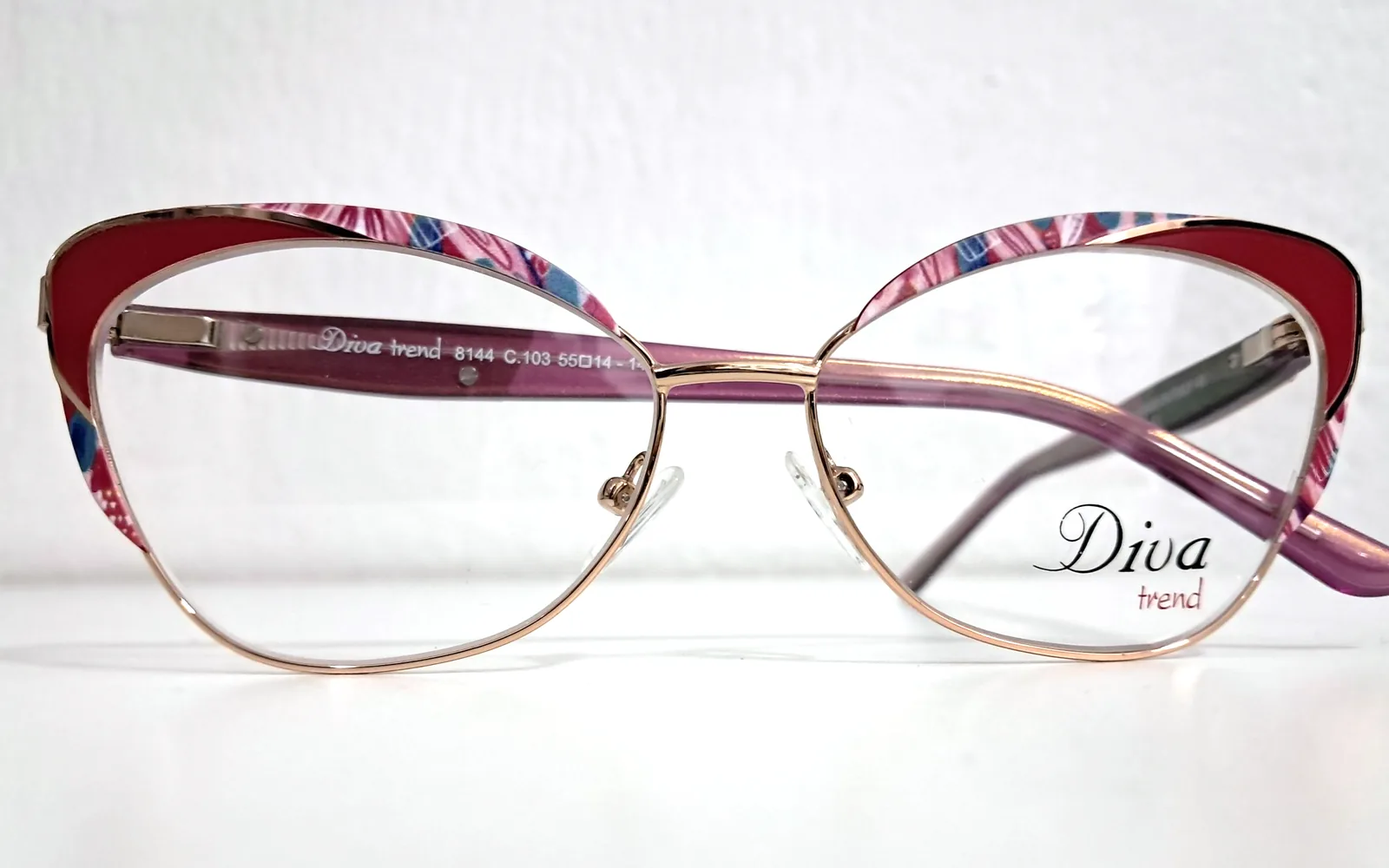
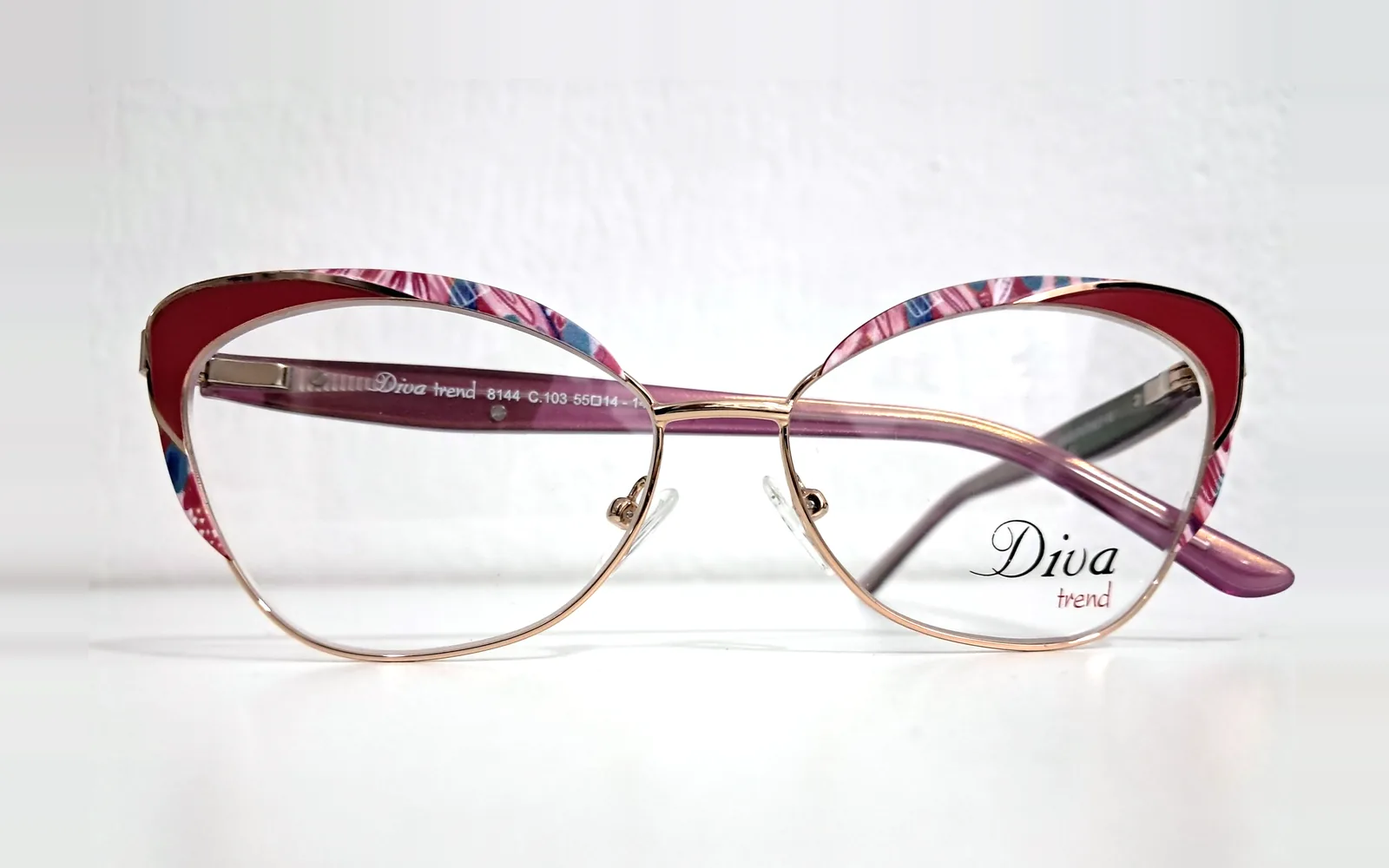
okviri u istoj ravni: poravnate kartice i velike fotografije
Kartice metalnih okvira (William Morris, Diva trend) su bile isecene drugacije
od clip-on okvira, pa su na zidu stajale nize, vise i krupnije. Sada sve kartice
prate isto pravilo: prednji deo okvira zauzima 79% sirine, donja ivica je na
75,5% visine. Gde fotografija nije dovoljno siroka, pozadina se produzi.

U galeriji je velika fotografija svakog modela poravnata verzija 4:3
(<model>-poravnat), sa istom sirinom okvira i donjom ivicom na 70% visine.
Pravilo je u tools/okviri-slike.py (KARTICA_PREDNJI, kartica_po_prednjem).

Changed region(s): [[0.0, 0.217, 1.0, 0.806]]

diff --git a/okviri/index.html b/okviri/index.html
@@ -107,7 +107,7 @@
         <h2 class="gal-name" id="kubik-ime">Kubik okvir</h2>
         <p class="gal-sub">Clip-on okvir, providni sivo-plavi</p>
         <ul class="gal-grid">
-          <li><a class="gal-item" href="/images/okviri/kubik/kubik-spreda-1600.webp" data-lb="kubik" data-cap="Kubik okvir, spreda"><img src="/images/okviri/kubik/kubik-spreda-800.webp" srcset="/images/okviri/kubik/kubik-spreda-800.webp 800w, /images/okviri/kubik/kubik-spreda-1600.webp 1600w" sizes="(max-width: 759px) 100vw, 600px" alt="Kubik okvir, spreda" width="800" height="600" loading="lazy" decoding="async"></a></li>
+          <li><a class="gal-item" href="/images/okviri/kubik/kubik-poravnat-1600.webp" data-lb="kubik" data-cap="Kubik okvir, spreda"><img src="/images/okviri/kubik/kubik-poravnat-800.webp" srcset="/images/okviri/kubik/kubik-poravnat-800.webp 800w, /images/okviri/kubik/kubik-poravnat-1600.webp 1600w" sizes="(max-width: 759px) 100vw, 600px" alt="Kubik okvir, spreda" width="800" height="600" loading="lazy" decoding="async"></a></li>
           <li><a class="gal-item" href="/images/okviri/kubik/kubik-poluprofil-1600.webp" data-lb="kubik" data-cap="Kubik okvir, iz poluprofila"><img src="/images/okviri/kubik/kubik-poluprofil-800.webp" srcset="/images/okviri/kubik/kubik-poluprofil-800.webp 800w, /images/okviri/kubik/kubik-poluprofil-1600.webp 1600w" sizes="(max-width: 759px) 50vw, 300px" alt="Kubik okvir, iz poluprofila" width="800" height="600" loading="lazy" decoding="async"></a></li>
           <li><a class="gal-item" href="/images/okviri/kubik/kubik-profil-1600.webp" data-lb="kubik" data-cap="Kubik okvir, sa strane"><img src="/images/okviri/kubik/kubik-profil-800.webp" srcset="/images/okviri/kubik/kubik-profil-800.webp 800w, /images/okviri/kubik/kubik-profil-1600.webp 1600w" sizes="(max-width: 759px) 50vw, 300px" alt="Kubik okvir, sa strane" width="800" height="600" loading="lazy" decoding="async"></a></li>
           <li><a class="gal-item" href="/images/okviri/kubik/kubik-clip-on-spreda-1600.webp" data-lb="kubik" data-cap="Kubik okvir, sa clip-on staklom, spreda"><img src="/images/okviri/kubik/kubik-clip-on-spreda-800.webp" srcset="/images/okviri/kubik/kubik-clip-on-spreda-800.webp 800w, /images/okviri/kubik/kubik-clip-on-spreda-1600.webp 1600w" sizes="(max-width: 759px) 50vw, 300px" alt="Kubik okvir, sa clip-on staklom, spreda" width="800" height="600" loading="lazy" decoding="async"></a></li>
@@ -123,7 +123,7 @@
         <h2 class="gal-name" id="tony-morgan-clip-on-1-ime">Tony Morgan Clip-on 1</h2>
         <p class="gal-sub">Clip-on okvir u boji šampanjca</p>
         <ul class="gal-grid">
-          <li><a class="gal-item" href="/images/okviri/tony-morgan-sampanj/tony-morgan-sampanj-spreda-1600.webp" data-lb="tony-morgan-clip-on-1" data-cap="Tony Morgan Clip-on 1, spreda"><img src="/images/okviri/tony-morgan-sampanj/tony-morgan-sampanj-spreda-800.webp" srcset="/images/okviri/tony-morgan-sampanj/tony-morgan-sampanj-spreda-800.webp 800w, /images/okviri/tony-morgan-sampanj/tony-morgan-sampanj-spreda-1600.webp 1600w" sizes="(max-width: 759px) 100vw, 600px" alt="Tony Morgan Clip-on 1, spreda" width="800" height="600" loading="lazy" decoding="async"></a></li>
+          <li><a class="gal-item" href="/images/okviri/tony-morgan-sampanj/tony-morgan-sampanj-poravnat-1600.webp" data-lb="tony-morgan-clip-on-1" data-cap="Tony Morgan Clip-on 1, spreda"><img src="/images/okviri/tony-morgan-sampanj/tony-morgan-sampanj-poravnat-800.webp" srcset="/images/okviri/tony-morgan-sampanj/tony-morgan-sampanj-poravnat-800.webp 800w, /images/okviri/tony-morgan-sampanj/tony-morgan-sampanj-poravnat-1600.webp 1600w" sizes="(max-width: 759px) 100vw, 600px" alt="Tony Morgan Clip-on 1, spreda" width="800" height="600" loading="lazy" decoding="async"></a></li>
           <li><a class="gal-item" href="/images/okviri/tony-morgan-sampanj/tony-morgan-sampanj-poluprofil-1600.webp" data-lb="tony-morgan-clip-on-1" data-cap="Tony Morgan Clip-on 1, iz poluprofila"><img src="/images/okviri/tony-morgan-sampanj/tony-morgan-sampanj-poluprofil-800.webp" srcset="/images/okviri/tony-morgan-sampanj/tony-morgan-sampanj-poluprofil-800.webp 800w, /images/okviri/tony-morgan-sampanj/tony-morgan-sampanj-poluprofil-1600.webp 1600w" sizes="(max-width: 759px) 50vw, 300px" alt="Tony Morgan Clip-on 1, iz poluprofila" width="800" height="600" loading="lazy" decoding="async"></a></li>
           <li><a class="gal-item" href="/images/okviri/tony-morgan-sampanj/tony-morgan-sampanj-profil-1600.webp" data-lb="tony-morgan-clip-on-1" data-cap="Tony Morgan Clip-on 1, sa strane"><img src="/images/okviri/tony-morgan-sampanj/tony-morgan-sampanj-profil-800.webp" srcset="/images/okviri/tony-morgan-sampanj/tony-morgan-sampanj-profil-800.webp 800w, /images/okviri/tony-morgan-sampanj/tony-morgan-sampanj-profil-1600.webp 1600w" sizes="(max-width: 759px) 50vw, 300px" alt="Tony Morgan Clip-on 1, sa strane" width="800" height="600" loading="lazy" decoding="async"></a></li>
           <li><a class="gal-item" href="/images/okviri/tony-morgan-sampanj/tony-morgan-sampanj-clip-on-spreda-1600.webp" data-lb="tony-morgan-clip-on-1" data-cap="Tony Morgan Clip-on 1, sa clip-on staklom, spreda"><img src="/images/okviri/tony-morgan-sampanj/tony-morgan-sampanj-clip-on-spreda-800.webp" srcset="/images/okviri/tony-morgan-sampanj/tony-morgan-sampanj-clip-on-spreda-800.webp 800w, /images/okviri/tony-morgan-sampanj/tony-morgan-sampanj-clip-on-spreda-1600.webp 1600w" sizes="(max-width: 759px) 50vw, 300px" alt="Tony Morgan Clip-on 1, sa clip-on staklom, spreda" width="800" height="600" loading="lazy" decoding="async"></a></li>
@@ -141,7 +141,7 @@
         <h2 class="gal-name" id="tony-morgan-clip-on-2-ime">Tony Morgan Clip-on 2</h2>
         <p class="gal-sub">Clip-on okvir, tamnoplavi leptir</p>
         <ul class="gal-grid">
-          <li><a class="gal-item" href="/images/okviri/tony-morgan-leptir/tony-morgan-leptir-spreda-1600.webp" data-lb="tony-morgan-clip-on-2" data-cap="Tony Morgan Clip-on 2, spreda"><img src="/images/okviri/tony-morgan-leptir/tony-morgan-leptir-spreda-800.webp" srcset="/images/okviri/tony-morgan-leptir/tony-morgan-leptir-spreda-800.webp 800w, /images/okviri/tony-morgan-leptir/tony-morgan-leptir-spreda-1600.webp 1600w" sizes="(max-width: 759px) 100vw, 600px" alt="Tony Morgan Clip-on 2, spreda" width="800" height="600" loading="lazy" decoding="async"></a></li>
+          <li><a class="gal-item" href="/images/okviri/tony-morgan-leptir/tony-morgan-leptir-poravnat-1600.webp" data-lb="tony-morgan-clip-on-2" data-cap="Tony Morgan Clip-on 2, spreda"><img src="/images/okviri/tony-morgan-leptir/tony-morgan-leptir-poravnat-800.webp" srcset="/images/okviri/tony-morgan-leptir/tony-morgan-leptir-poravnat-800.webp 800w, /images/okviri/tony-morgan-leptir/tony-morgan-leptir-poravnat-1600.webp 1600w" sizes="(max-width: 759px) 100vw, 600px" alt="Tony Morgan Clip-on 2, spreda" width="800" height="600" loading="lazy" decoding="async"></a></li>
           <li><a class="gal-item" href="/images/okviri/tony-morgan-leptir/tony-morgan-leptir-poluprofil-1600.webp" data-lb="tony-morgan-clip-on-2" data-cap="Tony Morgan Clip-on 2, iz poluprofila"><img src="/images/okviri/tony-morgan-leptir/tony-morgan-leptir-poluprofil-800.webp" srcset="/images/okviri/tony-morgan-leptir/tony-morgan-leptir-poluprofil-800.webp 800w, /images/okviri/tony-morgan-leptir/tony-morgan-leptir-poluprofil-1600.webp 1600w" sizes="(max-width: 759px) 50vw, 300px" alt="Tony Morgan Clip-on 2, iz poluprofila" width="800" height="600" loading="lazy" decoding="async"></a></li>
           <li><a class="gal-item" href="/images/okviri/tony-morgan-leptir/tony-morgan-leptir-profil-1600.webp" data-lb="tony-morgan-clip-on-2" data-cap="Tony Morgan Clip-on 2, sa strane"><img src="/images/okviri/tony-morgan-leptir/tony-morgan-leptir-profil-800.webp" srcset="/images/okviri/tony-morgan-leptir/tony-morgan-leptir-profil-800.webp 800w, /images/okviri/tony-morgan-leptir/tony-morgan-leptir-profil-1600.webp 1600w" sizes="(max-width: 759px) 50vw, 300px" alt="Tony Morgan Clip-on 2, sa strane" width="800" height="600" loading="lazy" decoding="async"></a></li>
           <li><a class="gal-item" href="/images/okviri/tony-morgan-leptir/tony-morgan-leptir-clip-on-spreda-1600.webp" data-lb="tony-morgan-clip-on-2" data-cap="Tony Morgan Clip-on 2, sa clip-on staklom, spreda"><img src="/images/okviri/tony-morgan-leptir/tony-morgan-leptir-clip-on-spreda-800.webp" srcset="/images/okviri/tony-morgan-leptir/tony-morgan-leptir-clip-on-spreda-800.webp 800w, /images/okviri/tony-morgan-leptir/tony-morgan-leptir-clip-on-spreda-1600.webp 1600w" sizes="(max-width: 759px) 50vw, 300px" alt="Tony Morgan Clip-on 2, sa clip-on staklom, spreda" width="800" height="600" loading="lazy" decoding="async"></a></li>
@@ -159,7 +159,7 @@
         <h2 class="gal-name" id="tony-morgan-clip-on-3-ime">Tony Morgan Clip-on 3</h2>
         <p class="gal-sub">Clip-on okvir, tamnoplavi cat-eye</p>
         <ul class="gal-grid">
-          <li><a class="gal-item" href="/images/okviri/tony-morgan-cat-eye/tony-morgan-cat-eye-spreda-1600.webp" data-lb="tony-morgan-clip-on-3" data-cap="Tony Morgan Clip-on 3, spreda"><img src="/images/okviri/tony-morgan-cat-eye/tony-morgan-cat-eye-spreda-800.webp" srcset="/images/okviri/tony-morgan-cat-eye/tony-morgan-cat-eye-spreda-800.webp 800w, /images/okviri/tony-morgan-cat-eye/tony-morgan-cat-eye-spreda-1600.webp 1600w" sizes="(max-width: 759px) 100vw, 600px" alt="Tony Morgan Clip-on 3, spreda" width="800" height="600" loading="lazy" decoding="async"></a></li>
+          <li><a class="gal-item" href="/images/okviri/tony-morgan-cat-eye/tony-morgan-cat-eye-poravnat-1600.webp" data-lb="tony-morgan-clip-on-3" data-cap="Tony Morgan Clip-on 3, spreda"><img src="/images/okviri/tony-morgan-cat-eye/tony-morgan-cat-eye-poravnat-800.webp" srcset="/images/okviri/tony-morgan-cat-eye/tony-morgan-cat-eye-poravnat-800.webp 800w, /images/okviri/tony-morgan-cat-eye/tony-morgan-cat-eye-poravnat-1600.webp 1600w" sizes="(max-width: 759px) 100vw, 600px" alt="Tony Morgan Clip-on 3, spreda" width="800" height="600" loading="lazy" decoding="async"></a></li>
           <li><a class="gal-item" href="/images/okviri/tony-morgan-cat-eye/tony-morgan-cat-eye-poluprofil-1600.webp" data-lb="tony-morgan-clip-on-3" data-cap="Tony Morgan Clip-on 3, iz poluprofila"><img src="/images/okviri/tony-morgan-cat-eye/tony-morgan-cat-eye-poluprofil-800.webp" srcset="/images/okviri/tony-morgan-cat-eye/tony-morgan-cat-eye-poluprofil-800.webp 800w, /images/okviri/tony-morgan-cat-eye/tony-morgan-cat-eye-poluprofil-1600.webp 1600w" sizes="(max-width: 759px) 50vw, 300px" alt="Tony Morgan Clip-on 3, iz poluprofila" width="800" height="600" loading="lazy" decoding="async"></a></li>
           <li><a class="gal-item" href="/images/okviri/tony-morgan-cat-eye/tony-morgan-cat-eye-profil-1600.webp" data-lb="tony-morgan-clip-on-3" data-cap="Tony Morgan Clip-on 3, sa strane"><img src="/images/okviri/tony-morgan-cat-eye/tony-morgan-cat-eye-profil-800.webp" srcset="/images/okviri/tony-morgan-cat-eye/tony-morgan-cat-eye-profil-800.webp 800w, /images/okviri/tony-morgan-cat-eye/tony-morgan-cat-eye-profil-1600.webp 1600w" sizes="(max-width: 759px) 50vw, 300px" alt="Tony Morgan Clip-on 3, sa strane" width="800" height="600" loading="lazy" decoding="async"></a></li>
           <li><a class="gal-item" href="/images/okviri/tony-morgan-cat-eye/tony-morgan-cat-eye-clip-on-spreda-1600.webp" data-lb="tony-morgan-clip-on-3" data-cap="Tony Morgan Clip-on 3, sa clip-on staklom, spreda"><img src="/images/okviri/tony-morgan-cat-eye/tony-morgan-cat-eye-clip-on-spreda-800.webp" srcset="/images/okviri/tony-morgan-cat-eye/tony-morgan-cat-eye-clip-on-spreda-800.webp 800w, /images/okviri/tony-morgan-cat-eye/tony-morgan-cat-eye-clip-on-spreda-1600.webp 1600w" sizes="(max-width: 759px) 50vw, 300px" alt="Tony Morgan Clip-on 3, sa clip-on staklom, spreda" width="800" height="600" loading="lazy" decoding="async"></a></li>
@@ -182,7 +182,7 @@
         <h2 class="gal-name" id="tony-morgan-clip-on-4-ime">Tony Morgan Clip-on 4</h2>
         <p class="gal-sub">Clip-on okvir, tamnoplavi okrugli</p>
         <ul class="gal-grid">
-          <li><a class="gal-item" href="/images/okviri/tony-morgan-okrugli/tony-morgan-okrugli-spreda-1600.webp" data-lb="tony-morgan-clip-on-4" data-cap="Tony Morgan Clip-on 4, spreda"><img src="/images/okviri/tony-morgan-okrugli/tony-morgan-okrugli-spreda-800.webp" srcset="/images/okviri/tony-morgan-okrugli/tony-morgan-okrugli-spreda-800.webp 800w, /images/okviri/tony-morgan-okrugli/tony-morgan-okrugli-spreda-1600.webp 1600w" sizes="(max-width: 759px) 100vw, 600px" alt="Tony Morgan Clip-on 4, spreda" width="800" height="600" loading="lazy" decoding="async"></a></li>
+          <li><a class="gal-item" href="/images/okviri/tony-morgan-okrugli/tony-morgan-okrugli-poravnat-1600.webp" data-lb="tony-morgan-clip-on-4" data-cap="Tony Morgan Clip-on 4, spreda"><img src="/images/okviri/tony-morgan-okrugli/tony-morgan-okrugli-poravnat-800.webp" srcset="/images/okviri/tony-morgan-okrugli/tony-morgan-okrugli-poravnat-800.webp 800w, /images/okviri/tony-morgan-okrugli/tony-morgan-okrugli-poravnat-1600.webp 1600w" sizes="(max-width: 759px) 100vw, 600px" alt="Tony Morgan Clip-on 4, spreda" width="800" height="600" loading="lazy" decoding="async"></a></li>
           <li><a class="gal-item" href="/images/okviri/tony-morgan-okrugli/tony-morgan-okrugli-poluprofil-1600.webp" data-lb="tony-morgan-clip-on-4" data-cap="Tony Morgan Clip-on 4, iz poluprofila"><img src="/images/okviri/tony-morgan-okrugli/tony-morgan-okrugli-poluprofil-800.webp" srcset="/images/okviri/tony-morgan-okrugli/tony-morgan-okrugli-poluprofil-800.webp 800w, /images/okviri/tony-morgan-okrugli/tony-morgan-okrugli-poluprofil-1600.webp 1600w" sizes="(max-width: 759px) 50vw, 300px" alt="Tony Morgan Clip-on 4, iz poluprofila" width="800" height="600" loading="lazy" decoding="async"></a></li>
           <li><a class="gal-item" href="/images/okviri/tony-morgan-okrugli/tony-morgan-okrugli-profil-1600.webp" data-lb="tony-morgan-clip-on-4" data-cap="Tony Morgan Clip-on 4, sa strane"><img src="/images/okviri/tony-morgan-okrugli/tony-morgan-okrugli-profil-800.webp" srcset="/images/okviri/tony-morgan-okrugli/tony-morgan-okrugli-profil-800.webp 800w, /images/okviri/tony-morgan-okrugli/tony-morgan-okrugli-profil-1600.webp 1600w" sizes="(max-width: 759px) 50vw, 300px" alt="Tony Morgan Clip-on 4, sa strane" width="800" height="600" loading="lazy" decoding="async"></a></li>
           <li><a class="gal-item" href="/images/okviri/tony-morgan-okrugli/tony-morgan-okrugli-clip-on-spreda-1600.webp" data-lb="tony-morgan-clip-on-4" data-cap="Tony Morgan Clip-on 4, sa clip-on staklom, spreda"><img src="/images/okviri/tony-morgan-okrugli/tony-morgan-okrugli-clip-on-spreda-800.webp" srcset="/images/okviri/tony-morgan-okrugli/tony-morgan-okrugli-clip-on-spreda-800.webp 800w, /images/okviri/tony-morgan-okrugli/tony-morgan-okrugli-clip-on-spreda-1600.webp 1600w" sizes="(max-width: 759px) 50vw, 300px" alt="Tony Morgan Clip-on 4, sa clip-on staklom, spreda" width="800" height="600" loading="lazy" decoding="async"></a></li>
@@ -200,7 +200,7 @@
         <h2 class="gal-name" id="tony-morgan-clip-on-5-ime">Tony Morgan Clip-on 5</h2>
         <p class="gal-sub">Clip-on okvir, tamnoplavi pravougaoni</p>
         <ul class="gal-grid">
-          <li><a class="gal-item" href="/images/okviri/tony-morgan-pravougaoni/tony-morgan-pravougaoni-spreda-1600.webp" data-lb="tony-morgan-clip-on-5" data-cap="Tony Morgan Clip-on 5, spreda"><img src="/images/okviri/tony-morgan-pravougaoni/tony-morgan-pravougaoni-spreda-800.webp" srcset="/images/okviri/tony-morgan-pravougaoni/tony-morgan-pravougaoni-spreda-800.webp 800w, /images/okviri/tony-morgan-pravougaoni/tony-morgan-pravougaoni-spreda-1600.webp 1600w" sizes="(max-width: 759px) 100vw, 600px" alt="Tony Morgan Clip-on 5, spreda" width="800" height="600" loading="lazy" decoding="async"></a></li>
+          <li><a class="gal-item" href="/images/okviri/tony-morgan-pravougaoni/tony-morgan-pravougaoni-poravnat-1600.webp" data-lb="tony-morgan-clip-on-5" data-cap="Tony Morgan Clip-on 5, spreda"><img src="/images/okviri/tony-morgan-pravougaoni/tony-morgan-pravougaoni-poravnat-800.webp" srcset="/images/okviri/tony-morgan-pravougaoni/tony-morgan-pravougaoni-poravnat-800.webp 800w, /images/okviri/tony-morgan-pravougaoni/tony-morgan-pravougaoni-poravnat-1600.webp 1600w" sizes="(max-width: 759px) 100vw, 600px" alt="Tony Morgan Clip-on 5, spreda" width="800" height="600" loading="lazy" decoding="async"></a></li>
           <li><a class="gal-item" href="/images/okviri/tony-morgan-pravougaoni/tony-morgan-pravougaoni-spreda-2-1600.webp" data-lb="tony-morgan-clip-on-5" data-cap="Tony Morgan Clip-on 5, spreda"><img src="/images/okviri/tony-morgan-pravougaoni/tony-morgan-pravougaoni-spreda-2-800.webp" srcset="/images/okviri/tony-morgan-pravougaoni/tony-morgan-pravougaoni-spreda-2-800.webp 800w, /images/okviri/tony-morgan-pravougaoni/tony-morgan-pravougaoni-spreda-2-1600.webp 1600w" sizes="(max-width: 759px) 50vw, 300px" alt="Tony Morgan Clip-on 5, spreda" width="800" height="600" loading="lazy" decoding="async"></a></li>
           <li><a class="gal-item" href="/images/okviri/tony-morgan-pravougaoni/tony-morgan-pravougaoni-poluprofil-1600.webp" data-lb="tony-morgan-clip-on-5" data-cap="Tony Morgan Clip-on 5, iz poluprofila"><img src="/images/okviri/tony-morgan-pravougaoni/tony-morgan-pravougaoni-poluprofil-800.webp" srcset="/images/okviri/tony-morgan-pravougaoni/tony-morgan-pravougaoni-poluprofil-800.webp 800w, /images/okviri/tony-morgan-pravougaoni/tony-morgan-pravougaoni-poluprofil-1600.webp 1600w" sizes="(max-width: 759px) 50vw, 300px" alt="Tony Morgan Clip-on 5, iz poluprofila" width="800" height="600" loading="lazy" decoding="async"></a></li>
           <li><a class="gal-item" href="/images/okviri/tony-morgan-pravougaoni/tony-morgan-pravougaoni-profil-1600.webp" data-lb="tony-morgan-clip-on-5" data-cap="Tony Morgan Clip-on 5, sa strane"><img src="/images/okviri/tony-morgan-pravougaoni/tony-morgan-pravougaoni-profil-800.webp" srcset="/images/okviri/tony-morgan-pravougaoni/tony-morgan-pravougaoni-profil-800.webp 800w, /images/okviri/tony-morgan-pravougaoni/tony-morgan-pravougaoni-profil-1600.webp 1600w" sizes="(max-width: 759px) 50vw, 300px" alt="Tony Morgan Clip-on 5, sa strane" width="800" height="600" loading="lazy" decoding="async"></a></li>
@@ -271,7 +271,7 @@
         <h2 class="gal-name" id="william-morris-ime">William Morris okvir, geometrijski od nerđajućeg čelika</h2>
         <p class="gal-sub">Metalni okvir, geometrijski od nerđajućeg čelika</p>
         <ul class="gal-grid">
-          <li><a class="gal-item" href="/images/okviri/william-morris/william-morris-spreda-1600.webp" data-lb="william-morris" data-cap="William Morris okvir, geometrijski od nerđajućeg čelika, spreda"><img src="/images/okviri/william-morris/william-morris-spreda-800.webp" srcset="/images/okviri/william-morris/william-morris-spreda-800.webp 800w, /images/okviri/william-morris/william-morris-spreda-1600.webp 1600w" sizes="(max-width: 759px) 100vw, 600px" alt="William Morris okvir, geometrijski od nerđajućeg čelika, spreda" width="800" height="600" loading="lazy" decoding="async"></a></li>
+          <li><a class="gal-item" href="/images/okviri/william-morris/william-morris-poravnat-1600.webp" data-lb="william-morris" data-cap="William Morris okvir, geometrijski od nerđajućeg čelika, spreda"><img src="/images/okviri/william-morris/william-morris-poravnat-800.webp" srcset="/images/okviri/william-morris/william-morris-poravnat-800.webp 800w, /images/okviri/william-morris/william-morris-poravnat-1600.webp 1600w" sizes="(max-width: 759px) 100vw, 600px" alt="William Morris okvir, geometrijski od nerđajućeg čelika, spreda" width="800" height="600" loading="lazy" decoding="async"></a></li>
           <li><a class="gal-item" href="/images/okviri/william-morris/william-morris-profil-1600.webp" data-lb="william-morris" data-cap="William Morris okvir, geometrijski od nerđajućeg čelika, sa strane"><img src="/images/okviri/william-morris/william-morris-profil-800.webp" srcset="/images/okviri/william-morris/william-morris-profil-800.webp 800w, /images/okviri/william-morris/william-morris-profil-1600.webp 1600w" sizes="(max-width: 759px) 50vw, 300px" alt="William Morris okvir, geometrijski od nerđajućeg čelika, sa strane" width="800" height="600" loading="lazy" decoding="async"></a></li>
           <li><a class="gal-item" href="/images/okviri/william-morris/william-morris-spreda-2-1600.webp" data-lb="william-morris" data-cap="William Morris okvir, geometrijski od nerđajućeg čelika, spreda"><img src="/images/okviri/william-morris/william-morris-spreda-2-800.webp" srcset="/images/okviri/william-morris/william-morris-spreda-2-800.webp 800w, /images/okviri/william-morris/william-morris-spreda-2-1600.webp 1600w" sizes="(max-width: 759px) 50vw, 300px" alt="William Morris okvir, geometrijski od nerđajućeg čelika, spreda" width="800" height="600" loading="lazy" decoding="async"></a></li>
         </ul>
@@ -285,7 +285,7 @@
         <h2 class="gal-name" id="diva-trend-zlatni-ime">Diva trend okvir, zlatni geometrijski cat-eye</h2>
         <p class="gal-sub">Metalni okvir, zlatni geometrijski cat-eye</p>
         <ul class="gal-grid">
-          <li><a class="gal-item" href="/images/okviri/diva-trend-zlatni/diva-trend-zlatni-spreda-1600.webp" data-lb="diva-trend-zlatni" data-cap="Diva trend okvir, zlatni geometrijski cat-eye, spreda"><img src="/images/okviri/diva-trend-zlatni/diva-trend-zlatni-spreda-800.webp" srcset="/images/okviri/diva-trend-zlatni/diva-trend-zlatni-spreda-800.webp 800w, /images/okviri/diva-trend-zlatni/diva-trend-zlatni-spreda-1600.webp 1600w" sizes="(max-width: 759px) 100vw, 600px" alt="Diva trend okvir, zlatni geometrijski cat-eye, spreda" width="800" height="600" loading="lazy" decoding="async"></a></li>
+          <li><a class="gal-item" href="/images/okviri/diva-trend-zlatni/diva-trend-zlatni-poravnat-1600.webp" data-lb="diva-trend-zlatni" data-cap="Diva trend okvir, zlatni geometrijski cat-eye, spreda"><img src="/images/okviri/diva-trend-zlatni/diva-trend-zlatni-poravnat-800.webp" srcset="/images/okviri/diva-trend-zlatni/diva-trend-zlatni-poravnat-800.webp 800w, /images/okviri/diva-trend-zlatni/diva-trend-zlatni-poravnat-1600.webp 1600w" sizes="(max-width: 759px) 100vw, 600px" alt="Diva trend okvir, zlatni geometrijski cat-eye, spreda" width="800" height="600" loading="lazy" decoding="async"></a></li>
           <li><a class="gal-item" href="/images/okviri/diva-trend-zlatni/diva-trend-zlatni-profil-1600.webp" data-lb="diva-trend-zlatni" data-cap="Diva trend okvir, zlatni geometrijski cat-eye, sa strane"><img src="/images/okviri/diva-trend-zlatni/diva-trend-zlatni-profil-800.webp" srcset="/images/okviri/diva-trend-zlatni/diva-trend-zlatni-profil-800.webp 800w, /images/okviri/diva-trend-zlatni/diva-trend-zlatni-profil-1600.webp 1600w" sizes="(max-width: 759px) 50vw, 300px" alt="Diva trend okvir, zlatni geometrijski cat-eye, sa strane" width="800" height="600" loading="lazy" decoding="async"></a></li>
         </ul>
         <p class="gal-desc">Diva trend okvir od tankog zlatnog metala, geometrijskog cat-eye oblika, sa blago podignutim spoljnim uglovima. Na drški ima šareni mozaik detalj.</p>
@@ -298,7 +298,7 @@
         <h2 class="gal-name" id="diva-trend-roze-zlatni-ime">Diva trend okvir, roze-zlatni cat-eye</h2>
         <p class="gal-sub">Metalni okvir, roze-zlatni cat-eye</p>
         <ul class="gal-grid">
-          <li><a class="gal-item" href="/images/okviri/diva-trend-roze-zlatni/diva-trend-roze-zlatni-spreda-1600.webp" data-lb="diva-trend-roze-zlatni" data-cap="Diva trend okvir, roze-zlatni cat-eye, spreda"><img src="/images/okviri/diva-trend-roze-zlatni/diva-trend-roze-zlatni-spreda-800.webp" srcset="/images/okviri/diva-trend-roze-zlatni/diva-trend-roze-zlatni-spreda-800.webp 800w, /images/okviri/diva-trend-roze-zlatni/diva-trend-roze-zlatni-spreda-1600.webp 1600w" sizes="(max-width: 759px) 100vw, 600px" alt="Diva trend okvir, roze-zlatni cat-eye, spreda" width="800" height="600" loading="lazy" decoding="async"></a></li>
+          <li><a class="gal-item" href="/images/okviri/diva-trend-roze-zlatni/diva-trend-roze-zlatni-poravnat-1600.webp" data-lb="diva-trend-roze-zlatni" data-cap="Diva trend okvir, roze-zlatni cat-eye, spreda"><img src="/images/okviri/diva-trend-roze-zlatni/diva-trend-roze-zlatni-poravnat-800.webp" srcset="/images/okviri/diva-trend-roze-zlatni/diva-trend-roze-zlatni-poravnat-800.webp 800w, /images/okviri/diva-trend-roze-zlatni/diva-trend-roze-zlatni-poravnat-1600.webp 1600w" sizes="(max-width: 759px) 100vw, 600px" alt="Diva trend okvir, roze-zlatni cat-eye, spreda" width="800" height="600" loading="lazy" decoding="async"></a></li>
           <li><a class="gal-item" href="/images/okviri/diva-trend-roze-zlatni/diva-trend-roze-zlatni-profil-1600.webp" data-lb="diva-trend-roze-zlatni" data-cap="Diva trend okvir, roze-zlatni cat-eye, sa strane"><img src="/images/okviri/diva-trend-roze-zlatni/diva-trend-roze-zlatni-profil-800.webp" srcset="/images/okviri/diva-trend-roze-zlatni/diva-trend-roze-zlatni-profil-800.webp 800w, /images/okviri/diva-trend-roze-zlatni/diva-trend-roze-zlatni-profil-1600.webp 1600w" sizes="(max-width: 759px) 50vw, 300px" alt="Diva trend okvir, roze-zlatni cat-eye, sa strane" width="800" height="600" loading="lazy" decoding="async"></a></li>
           <li><a class="gal-item" href="/images/okviri/diva-trend-roze-zlatni/diva-trend-roze-zlatni-sklopljen-1600.webp" data-lb="diva-trend-roze-zlatni" data-cap="Diva trend okvir, roze-zlatni cat-eye, sklopljen"><img src="/images/okviri/diva-trend-roze-zlatni/diva-trend-roze-zlatni-sklopljen-800.webp" srcset="/images/okviri/diva-trend-roze-zlatni/diva-trend-roze-zlatni-sklopljen-800.webp 800w, /images/okviri/diva-trend-roze-zlatni/diva-trend-roze-zlatni-sklopljen-1600.webp 1600w" sizes="(max-width: 759px) 50vw, 300px" alt="Diva trend okvir, roze-zlatni cat-eye, sklopljen" width="800" height="600" loading="lazy" decoding="async"></a></li>
         </ul>

diff --git a/index.html b/index.html
@@ -250,14 +250,14 @@
         </li>
         <li class="wall-item" data-filteri="metalni">
           <a href="/okviri/#william-morris">
-            <span class="wall-img wall-img--studio"><img src="/images/okviri/william-morris/william-morris-spreda-800.webp" srcset="/images/okviri/william-morris/william-morris-spreda-800.webp 800w, /images/okviri/william-morris/william-morris-spreda-1600.webp 1600w" sizes="(max-width: 1020px) 50vw, 25vw" alt="William Morris okvir, geometrijski od nerđajućeg čelika" width="800" height="600" loading="lazy" decoding="async"></span>
+            <span class="wall-img wall-img--studio"><img src="/images/okviri/william-morris/william-morris-kartica-800.webp" srcset="/images/okviri/william-morris/william-morris-kartica-800.webp 800w, /images/okviri/william-morris/william-morris-kartica-1600.webp 1600w" sizes="(max-width: 1020px) 50vw, 25vw" alt="William Morris okvir, geometrijski od nerđajućeg čelika" width="800" height="500" loading="lazy" decoding="async"></span>
             <span class="wall-name">William Morris</span>
             <span class="wall-cat">Metalni okvir</span>
           </a>
         </li>
         <li class="wall-item" data-filteri="metalni">
           <a href="/okviri/#diva-trend-roze-zlatni">
-            <span class="wall-img wall-img--studio"><img src="/images/okviri/diva-trend-roze-zlatni/diva-trend-roze-zlatni-spreda-800.webp" srcset="/images/okviri/diva-trend-roze-zlatni/diva-trend-roze-zlatni-spreda-800.webp 800w, /images/okviri/diva-trend-roze-zlatni/diva-trend-roze-zlatni-spreda-1600.webp 1600w" sizes="(max-width: 1020px) 50vw, 25vw" alt="Diva trend okvir, roze-zlatni cat-eye" width="800" height="600" loading="lazy" decoding="async"></span>
+            <span class="wall-img wall-img--studio"><img src="/images/okviri/diva-trend-roze-zlatni/diva-trend-roze-zlatni-kartica-800.webp" srcset="/images/okviri/diva-trend-roze-zlatni/diva-trend-roze-zlatni-kartica-800.webp 800w, /images/okviri/diva-trend-roze-zlatni/diva-trend-roze-zlatni-kartica-1600.webp 1600w" sizes="(max-width: 1020px) 50vw, 25vw" alt="Diva trend okvir, roze-zlatni cat-eye" width="800" height="500" loading="lazy" decoding="async"></span>
             <span class="wall-name">Diva trend, roze-zlatni</span>
             <span class="wall-cat">Metalni okvir</span>
           </a>

diff --git a/tools/okviri-slike.py b/tools/okviri-slike.py
@@ -51,6 +51,18 @@ MODELI = {
 # crni sjajni cat-eye na futroli (folder 6) je po izgledu isti model kao folder 11
 DODATNO = {'crni-cat-eye-acetat': ('6', {'futrola': '79'})}
 
+# Kartica po prednjem delu okvira (x0, y0, x1, y1 na fotografiji spreda od 2400 px), za modele
+# kod kojih automatski izrez ne uspeva (tanki metalni okviri, okvir skoro preko cele fotografije).
+# Kartica tada stoji isto kao poravnati parovi clip-on okvira: okvir zauzima 79% širine,
+# a donja ivica okvira je na 75,5% visine, pa svi okviri na zidu stoje na istoj liniji.
+KARTICA_PREDNJI = {
+    'william-morris': (120, 504, 2250, 1305),
+    'diva-trend-roze-zlatni': (114, 375, 2295, 1146),
+    'diva-trend-zlatni': (246, 735, 2040, 1320),
+}
+PREDNJI_SIRINA, PREDNJI_DNO = .79, .755
+PORAVNAT_DNO = .70  # velika fotografija 4:3 u galeriji: donja ivica okvira na 70% visine
+
 
 def lift(im):
     a = np.asarray(im.convert('RGB'), dtype=np.float64)
@@ -129,6 +141,57 @@ def frame_box_85(a):
     return (round(cx - cw / 2), round(cy - ch / 2), round(cx + cw / 2), round(cy + ch / 2))
 
 
+def _pad_bg(a, left, right, top, bottom, band=80, smooth=41):
+    """Produži pozadinu: svaki novi red/kolona dobija boju pozadine iz trake uz ivicu.
+    U obzir ulaze samo svetli, sivi pikseli trake, pa se okvir i drške ne razvlače u pruge."""
+    k = np.ones(smooth) / smooth
+    def side(edge):  # edge: (H, band, 3) -> (H, 3) izglađena boja pozadine po redovima
+        sat = edge.max(axis=2) - edge.min(axis=2)
+        ok = (sat < 22) & (edge.mean(axis=2) > 185)
+        m = np.full((edge.shape[0], 3), np.nan)
+        for y in range(edge.shape[0]):
+            px = edge[y][ok[y]]
+            if len(px) >= 10:
+                m[y] = np.median(px, axis=0)
+        i = np.arange(len(m)); good = ~np.isnan(m[:, 0])
+        m = np.stack([np.interp(i, i[good], m[good, c]) for c in range(3)], axis=1)
+        return np.stack([np.convolve(np.pad(m[:, c], smooth // 2, mode='edge'), k, 'valid') for c in range(3)], axis=1)
+    if left:
+        a = np.concatenate([np.repeat(side(a[:, :band])[:, None], left, axis=1), a], axis=1)
+    if right:
+        a = np.concatenate([a, np.repeat(side(a[:, -band:])[:, None], right, axis=1)], axis=1)
+    if top:
+        a = np.concatenate([np.repeat(side(a[:band].transpose(1, 0, 2))[None], top, axis=0), a], axis=0)
+    if bottom:
+        a = np.concatenate([a, np.repeat(side(a[-band:].transpose(1, 0, 2))[None], bottom, axis=0)], axis=0)
+    return a
+
+
+def kartica_po_prednjem(im, front, aspect=8 / 5, dno=PREDNJI_DNO):
+    """Izrez u kome prednji deo okvira stoji kao na poravnatim parovima (vidi KARTICA_PREDNJI).
+    aspect 8/5 je kartica za zid, 4/3 je velika fotografija u galeriji (ista širina okvira, više pozadine)."""
+    x0, y0, x1, y1 = front
+    w = (x1 - x0) / PREDNJI_SIRINA
+    h = w / aspect
+    cx = (x0 + x1) / 2
+    bx = [round(cx - w / 2), round(y1 - dno * h)]
+    bx += [bx[0] + round(w), bx[1] + round(h)]
+    a = np.asarray(im.convert('RGB'), dtype=np.float64)
+    pl, pt = max(0, -bx[0]), max(0, -bx[1])
+    pr, pb = max(0, bx[2] - im.width), max(0, bx[3] - im.height)
+    a = _pad_bg(a, pl, pr, pt, pb)
+    a = a[bx[1] + pt:bx[3] + pt, bx[0] + pl:bx[2] + pl]
+    return Image.fromarray(np.clip(a, 0, 255).astype(np.uint8))
+
+
+def prednji_iz_para(im):
+    """Prednji deo okvira na fotografiji spreda, procenjen iz izreza 8:5 kao kod poravnatih parova."""
+    x0, y0, x1, y1 = frame_box_85(im)
+    w, h = x1 - x0, y1 - y0
+    m = (1 - PREDNJI_SIRINA) / 2
+    return (x0 + m * w, y0 + .3 * h, x1 - m * w, y0 + PREDNJI_DNO * h)
+
+
 def safe_crop(im, bx):
     canvas = Image.new('RGB', (bx[2] - bx[0], bx[3] - bx[1]), tuple(int(v) for v in TARGET))
     canvas.paste(im, (-bx[0], -bx[1]))
@@ -156,11 +219,17 @@ def main():
             save(im, od / f'{model}-{v}')
         if not pair and 'spreda' in views:
             im = cache[views['spreda']]
-            save(safe_crop(im, frame_box_85(im)), od / f'{model}-kartica')
+            if model in KARTICA_PREDNJI:
+                save(kartica_po_prednjem(im, KARTICA_PREDNJI[model]), od / f'{model}-kartica')
+                save(kartica_po_prednjem(im, KARTICA_PREDNJI[model], 4 / 3, PORAVNAT_DNO), od / f'{model}-poravnat')
+            else:
+                save(safe_crop(im, frame_box_85(im)), od / f'{model}-kartica')
         if pair:
             ca, cb, s, off = align_pair(cache[pair[0]], cache[pair[1]])
             save(ca, od / f'{model}-uporedjenje-bez')
             save(cb, od / f'{model}-uporedjenje-sa')
+            a = cache[pair[0]]
+            save(kartica_po_prednjem(a, prednji_iz_para(a), 4 / 3, PORAVNAT_DNO), od / f'{model}-poravnat')
             print(model, 'par: razmera %.2f, pomeraj %.0f,%.0f, preklapanje %.2f' % (s, *off))
         print(model, len(jobs), 'slika')
 

diff --git a/tools/stranice.py b/tools/stranice.py
@@ -44,6 +44,7 @@ POGLED = {
     'futrola-otvorena-2': 'u otvorenoj Tony Morgan futroli',
     'futrola-otvorena-3': 'ispred otvorene Tony Morgan futrole',
     'futrola-otvorena-4': 'na krpici ispred Tony Morgan futrole',
+    'poravnat': 'spreda',
 }
 
 
@@ -76,7 +77,8 @@ def kartica(o, sizes='(max-width: 1020px) 50vw, 25vw'):
         alt = (f'<img class="wall-alt" src="{okvir_img_base(o, "uporedjenje-sa")}-800.webp" '
                f'alt="" width="800" height="500" loading="lazy" decoding="async">')
     else:
-        main = img(okvir_img_base(o, o.get('kartica', 'spreda')), o['ime'], 800, 600, sizes)
+        v = o.get('kartica', 'spreda')
+        main = img(okvir_img_base(o, v), o['ime'], 800, 500 if v == 'kartica' else 600, sizes)
         alt = ''
     href = f'/okviri/{o["slug"]}/' if PRODAVNICA else f'/okviri/#{o["slug"]}'
     return (f'        <li class="wall-item" data-filteri="{" ".join(o["filteri"])}">\n'
@@ -291,7 +293,11 @@ LIGHTBOX = f'''
 
 
 def gal_model(o):
-    views = o.get('galerija', o['pogledi'])
+    views = list(o.get('galerija', o['pogledi']))
+    # velika fotografija spreda je poravnata kao na zidu, da svi okviri stoje u istoj ravni
+    poravnat = o.get('par') or ('metalni' in o['filteri'] and o.get('kartica') == 'kartica')
+    if poravnat and views and views[0] == 'spreda':
+        views[0] = 'poravnat'
     items = ''
     for i, v in enumerate(views):
         b = okvir_img_base(o, v)
